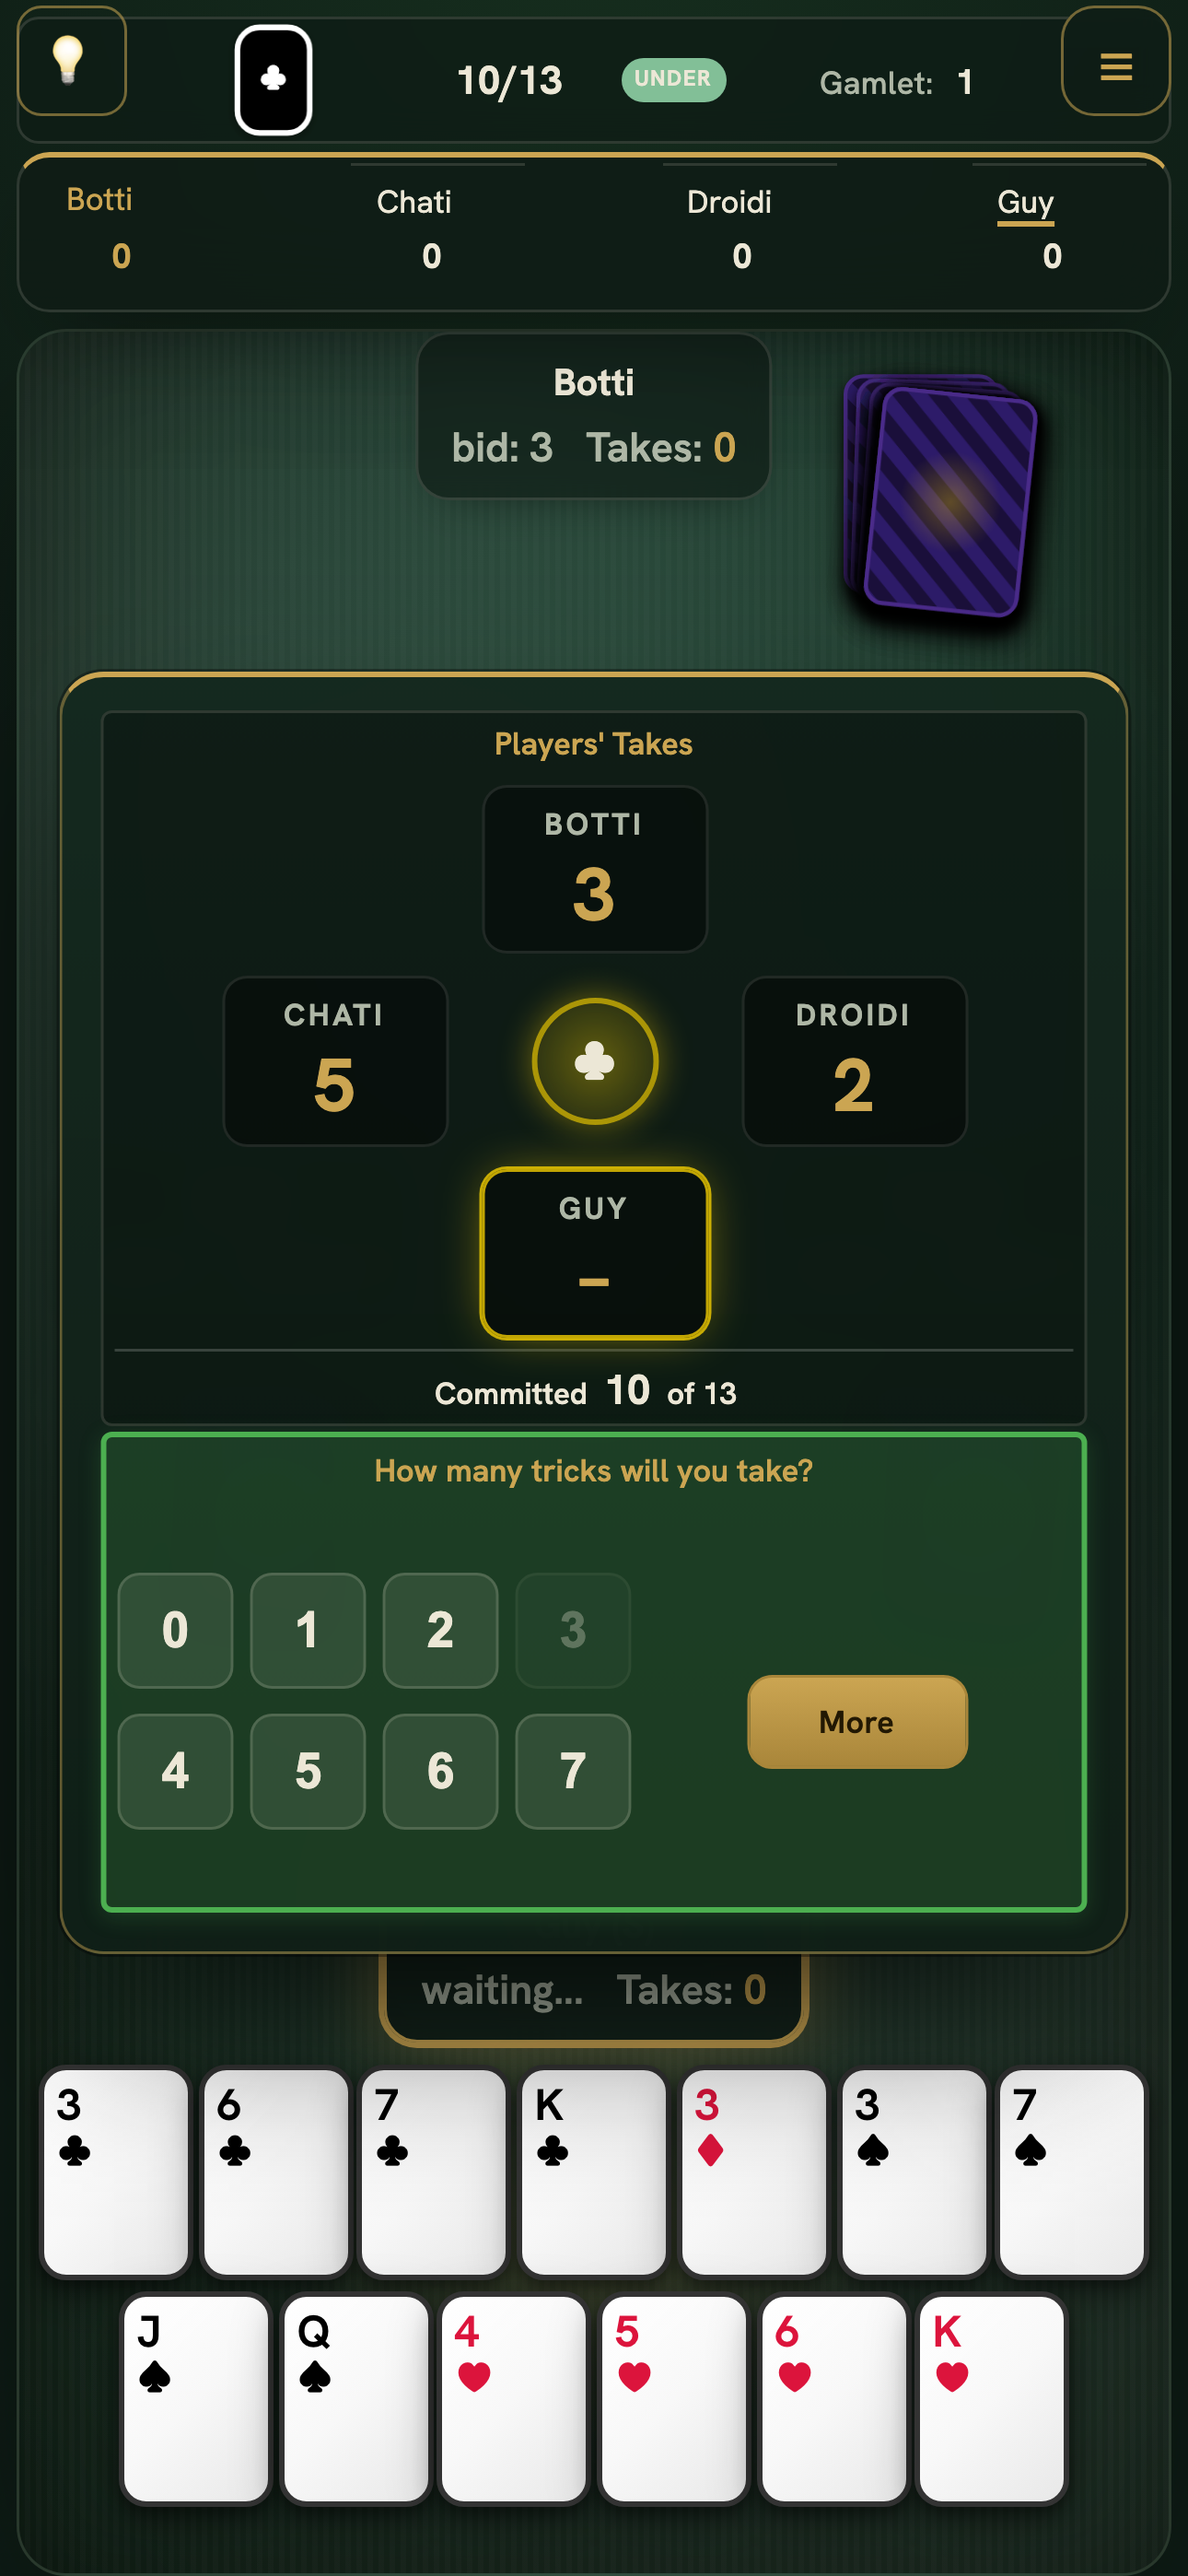
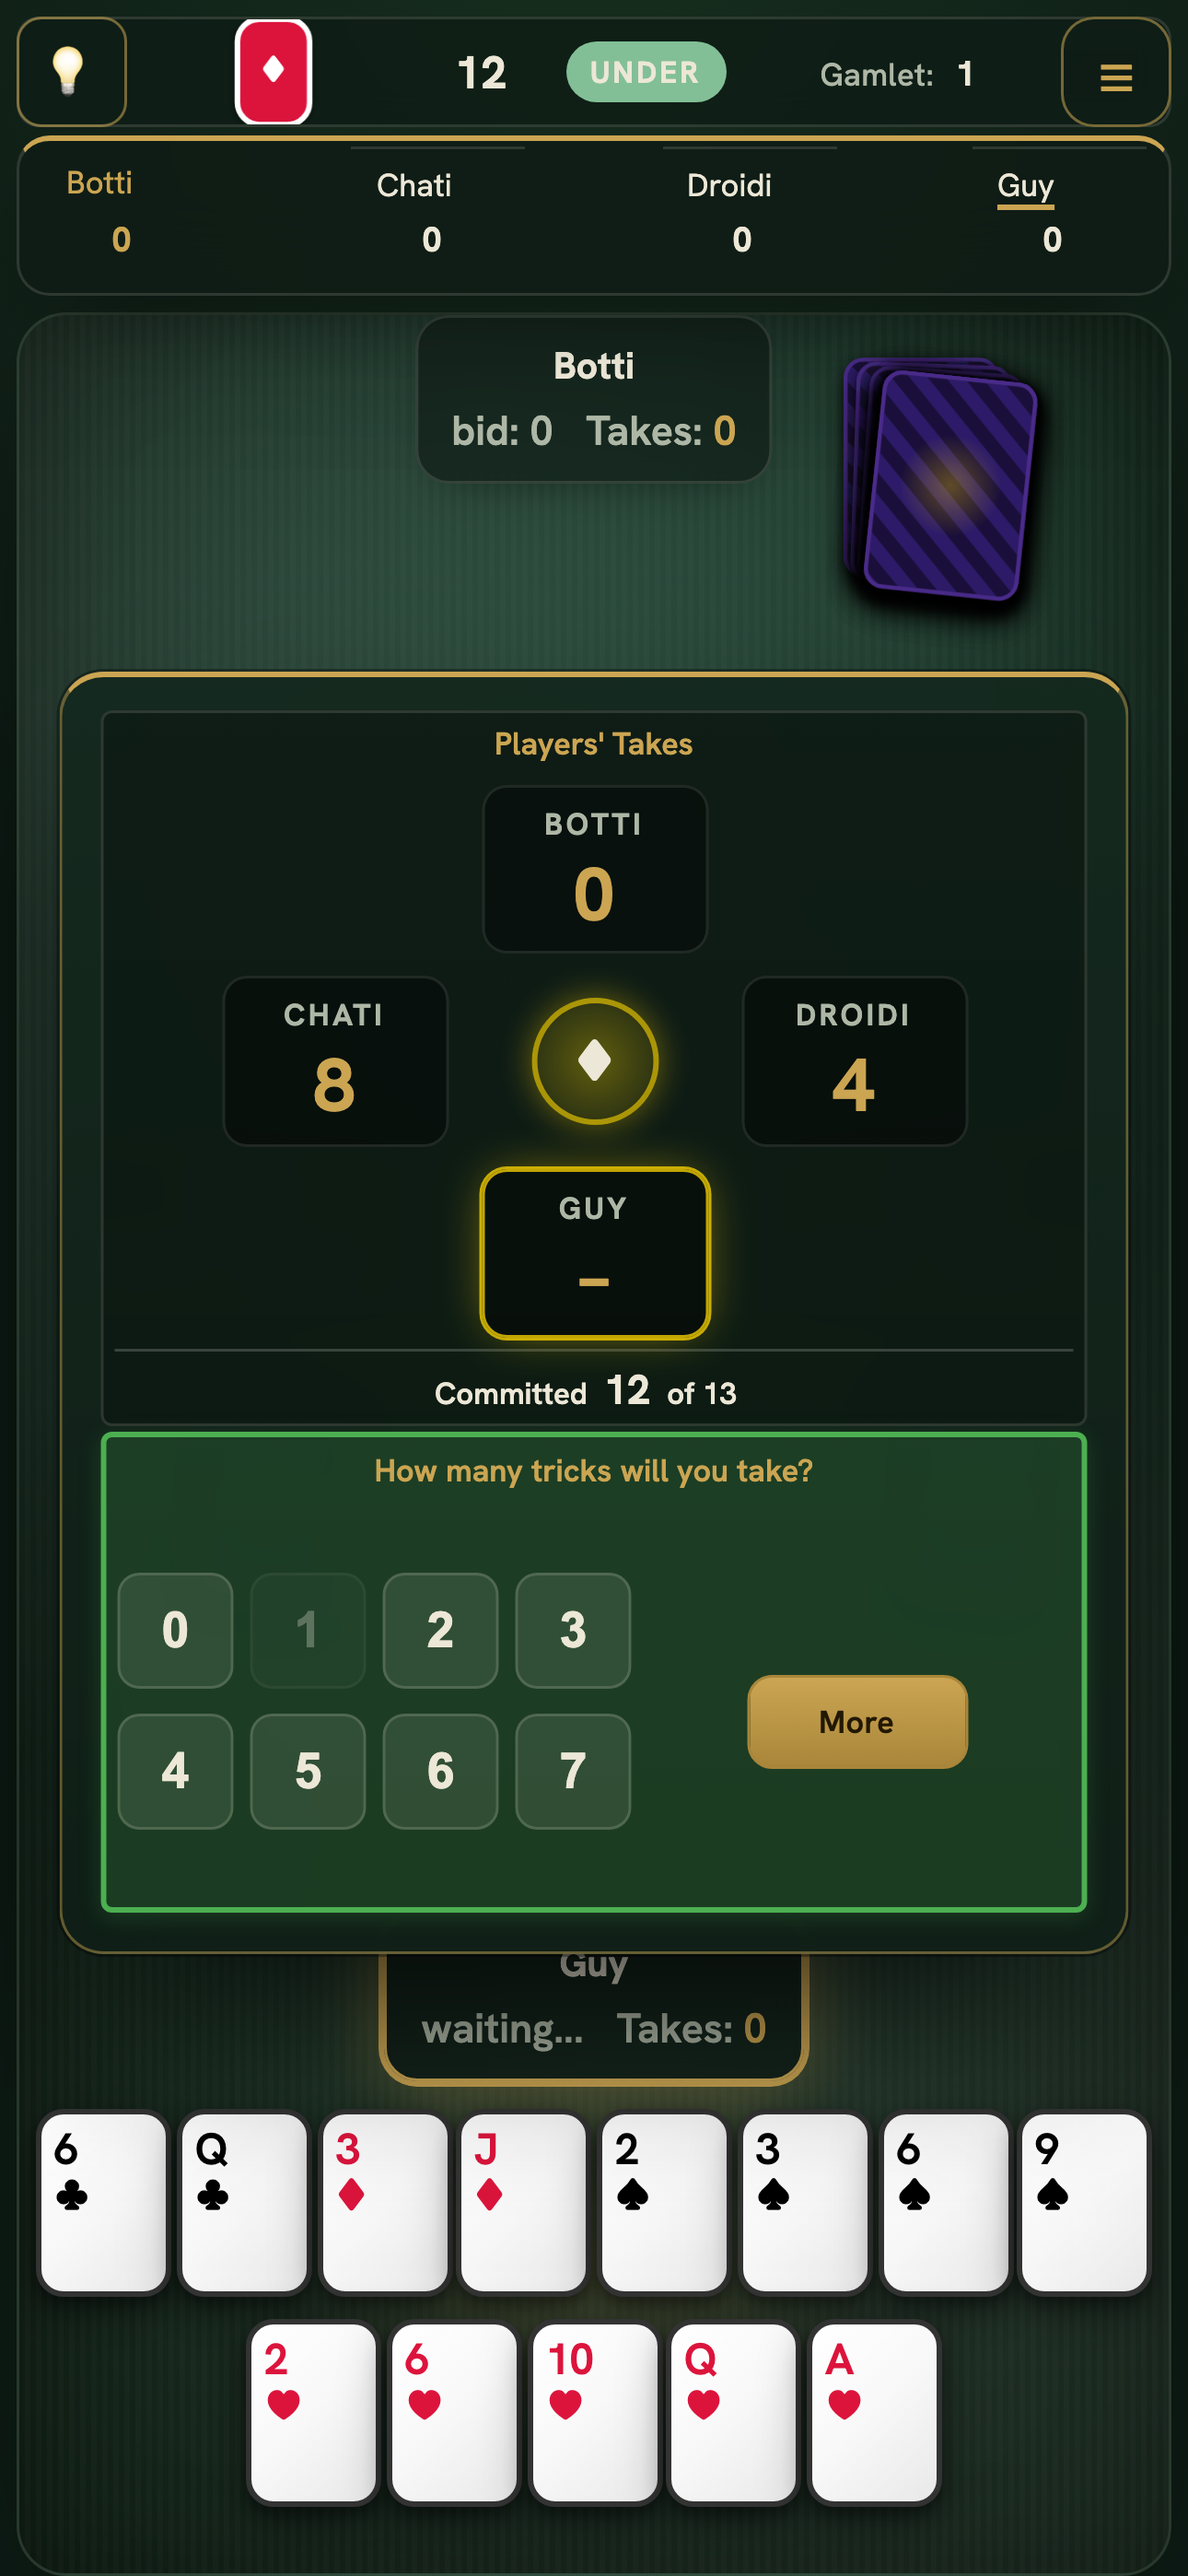
chore(release): 1.2 (4) — suit-aligned rows, landscape scale, aligned top bar
Cuts 1.2 from the five table fixes in 847ff09 plus everything since the 1.1
binary, and corrects the release bookkeeping that nearly shipped it wrong.

THE VERSION. This started as 1.1 build 4, on the strength of a release-history
row that still read PREPARE_FOR_SUBMISSION for 1.1. It wasn't: 1.1 had been
approved and shipped, and App Store Connect refused the upload —

  90186  Invalid Pre-Release Train. The train version '1.1' is closed for new
         build submissions
  90062  CFBundleShortVersionString [1.1] must be higher than the previously
         approved version [1.1]

An approved version's train is closed for good; the next upload needs a higher
MARKETING_VERSION, never just a higher build. The table is corrected and now
carries that rule, with the error codes, next to a standing instruction to run
--validate-app before every upload — thirty seconds, and it is the only thing
that caught this.

THE RELEASE NOTES. The shipped 1.1 was archived from 8406043, which predates
31adac0 — so the two-row hand, the ranked scoreboard, the over/under banner and
the keyboard-safe name card have never been in a released build. What's New for
1.2 covers all of it rather than only the fixes from this week; 1.1 and 1.0 fold
into history.

THE SCREENSHOTS. Regenerated for the new UI, and the capture script needed two
fixes to produce shots worth shipping. The "All bids in — 12 of 13" banner sits
on a fixed dwell that Turbo deliberately does not shorten, so on a fast run it
[…]

diff --git a/docs/app-store/listing.md b/docs/app-store/listing.md
@@ -54,7 +54,21 @@ RESPECTS YOU
 Whether you grew up playing Israeli Whist (Ashkelon Whist / "Oh Hell"-style bidding) or you're a Spades/Bridge player looking for your next obsession, this is a fast, brainy hand you'll keep coming back to.
 ```
 
-## What's New (version 1.1)
+## What's New (version 1.2)
+```
+Your hand, easier to read and easier to hit.
+
+• Thirteen cards now sit on two rows instead of one overlapping fan — and the rows break between suits, so a suit is never split across both.
+• In landscape, the cards and the seat labels scale to your screen instead of staying phone-sized.
+• The scoreboard is a ranking: sorted with the leader lit, your seat marked, and the swing from the hand just scored (+14 / −30) beside each total.
+• When the last prediction lands, the table says plainly whether the hand is over or under 13 and what that means — and the status bar keeps the count for the rest of the hand.
+• The name card stays above the keyboard instead of behind it, and no longer opens the keyboard before you ask for it.
+• Tidier top bar: the trump, the bid count and the menu finally sit on one line.
+```
+
+<details>
+<summary>What's New (version 1.1)</summary>
+
 ```
 Bigger cards and a whole new way to play them.
 
@@ -66,6 +80,7 @@ Bigger cards and a whole new way to play them.
 • Bidding now happens on the table itself, and a single menu button frees up screen space.
 • The Hint button is back on the table, and the trump winner's takes start at their minimum bid.
 ```
+</details>
 
 <details>
 <summary>What's New (version 1.0)</summary>
@@ -112,7 +127,22 @@ per size if you want to add more.
 | Version | Build | Commit | Exported | Store state |
 |---|---|---|---|---|
 | 1.0 | 2 | `f67444b` | 2026-07-29 | READY_FOR_SALE |
-| 1.1 | 3 | `8406043` | 2026-08-15 | PREPARE_FOR_SUBMISSION |
+| 1.1 | 3 | `8406043` | 2026-08-15 | approved — train closed to new builds |
+| 1.2 | 4 | `1dfa519` | 2026-08-24 | uploaded, awaiting build processing |
+
+**Keep this table honest.** 1.1 was left here as PREPARE_FOR_SUBMISSION long
+after it had actually been approved, and a build 4 was cut against `1.1` on the
+strength of it. App Store Connect refused it, which is the only reason the
+mistake surfaced:
+
+```
+90186  Invalid Pre-Release Train. The train version '1.1' is closed for new build submissions
+90062  CFBundleShortVersionString [1.1] must be higher than the previously approved version [1.1]
+```
+
+An approved version's train is closed forever — the next upload always needs a
+higher `MARKETING_VERSION`, never just a higher build. `--validate-app` catches
+it in about thirty seconds and costs nothing, so run it before every upload.
 
 The version string must match the version page in App Store Connect exactly —
 a `1.1.0` build does not attach to a page created as `1.1`. Check with
@@ -139,6 +169,19 @@ xcodebuild -exportArchive -archivePath build/App.xcarchive \
   -exportOptionsPlist build/ExportOptions.plist \
   -exportPath build/ios-export -allowProvisioningUpdates
 ```
+
+The export step re-signs the archive for distribution, so it needs an **iOS
+Distribution** certificate in the login keychain — the archive itself is happy
+with the Development one. Check before you start:
+
+```bash
+security find-identity -v -p codesigning     # want an "Apple Distribution" line
+```
+
+If it isn't there, export fails with `No signing certificate "iOS Distribution"
+found` / `No Accounts`: automatic signing can only mint one when an Apple
+Developer account is signed in under Xcode → Settings → Accounts. Signing in and
+re-running the same export command is the fix; there is no CLI substitute.
 
 `ExportOptions.plist` uses `method: app-store-connect` and
 `manageAppVersionAndBuildNumber: false` — with it set to `true` (the Xcode
